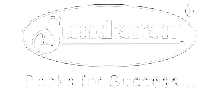
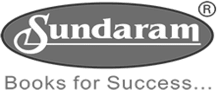
changes

diff --git a/index.html b/index.html
@@ -1006,13 +1006,13 @@
                     <div class="platinum-sponsor">
                         <div class="swiper-wrapper">
                             <div class="swiper-slide">
-                                <img src="assets\images\sponsor\sponsor-1_210x63.png" alt="sponsor">
+                                <img src="assets\images\sponsor\branding-cat.png" alt="sponsor">
                             </div>
                             <div class="swiper-slide">
                                  <img src="assets\images\sponsor\bvp_logo.png" alt="sponsor">
                             </div>
                             <div class="swiper-slide">
-                                <img src="assets\images\sponsor\sponsor-1_210x63.png" alt="sponsor">
+                                <img src="assets\images\sponsor\branding-cat.png" alt="sponsor">
                             </div>
                             <div class="swiper-slide">
                                  <img src="assets\images\sponsor\bvp_logo.png" alt="sponsor">
@@ -1048,7 +1048,7 @@
                             </div>
                         </div>
                     </div> 
-                     <!-- <div class="silver-sponsor">
+                      <div class="silver-sponsor">
                         <div class="swiper-wrapper">
                             <div class="swiper-slide">
                                 <img src="assets/images/sponsor/taco-bell.png" alt="sponsor">
@@ -1057,7 +1057,7 @@
                                 <img src="assets/images/sponsor/13.png" alt="sponsor">
                             </div>
                             <div class="swiper-slide">
-                                <img src="assets/images/sponsor/14.png" alt="sponsor">
+                                <img src="assets/images/sponsor/gamesnacks.png" alt="sponsor">
                             </div>
                             <div class="swiper-slide">
                                 <img src="assets/images/sponsor/15.png" alt="sponsor">
@@ -1066,7 +1066,7 @@
                                 <img src="assets/images/sponsor/16.png" alt="sponsor">
                             </div>
                         </div>
-                    </div>   -->
+                    </div>   
                 </div>
                 <a href="#" class="lab-btn"><span>
                         Become a Sponsor

diff --git a/gamezone.html b/gamezone.html
@@ -38,7 +38,7 @@
                 <div class="header-wrapper">
                     <div class="logo">
                         <a href="index.html">
-                            <img src="assets/images/logo/01.png" alt="logo">
+                            <img src="assets/images/sponsor/branding-cat.png" alt="logo">
                         </a>
                     </div>
                     <div class="menu-area">
